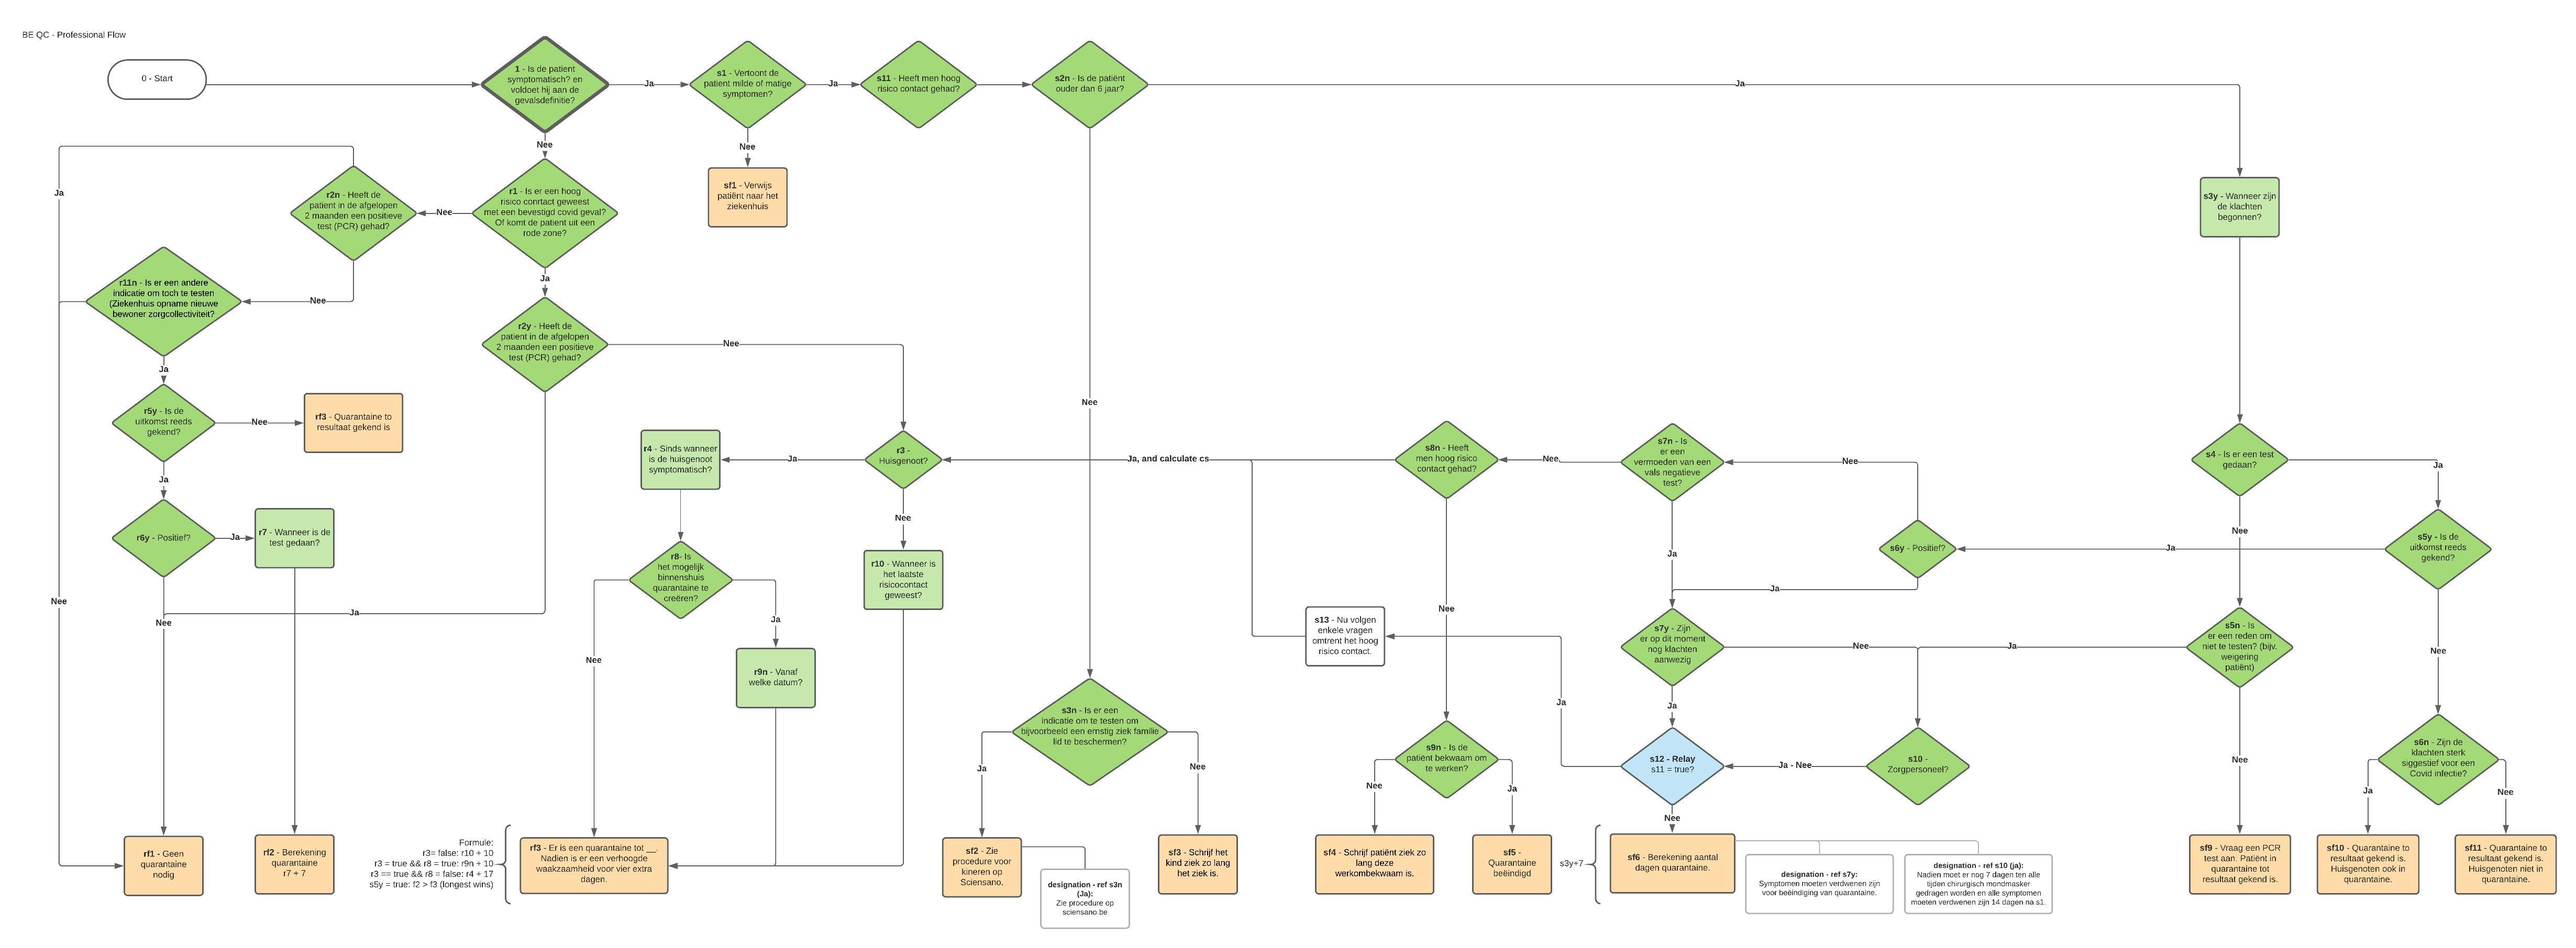
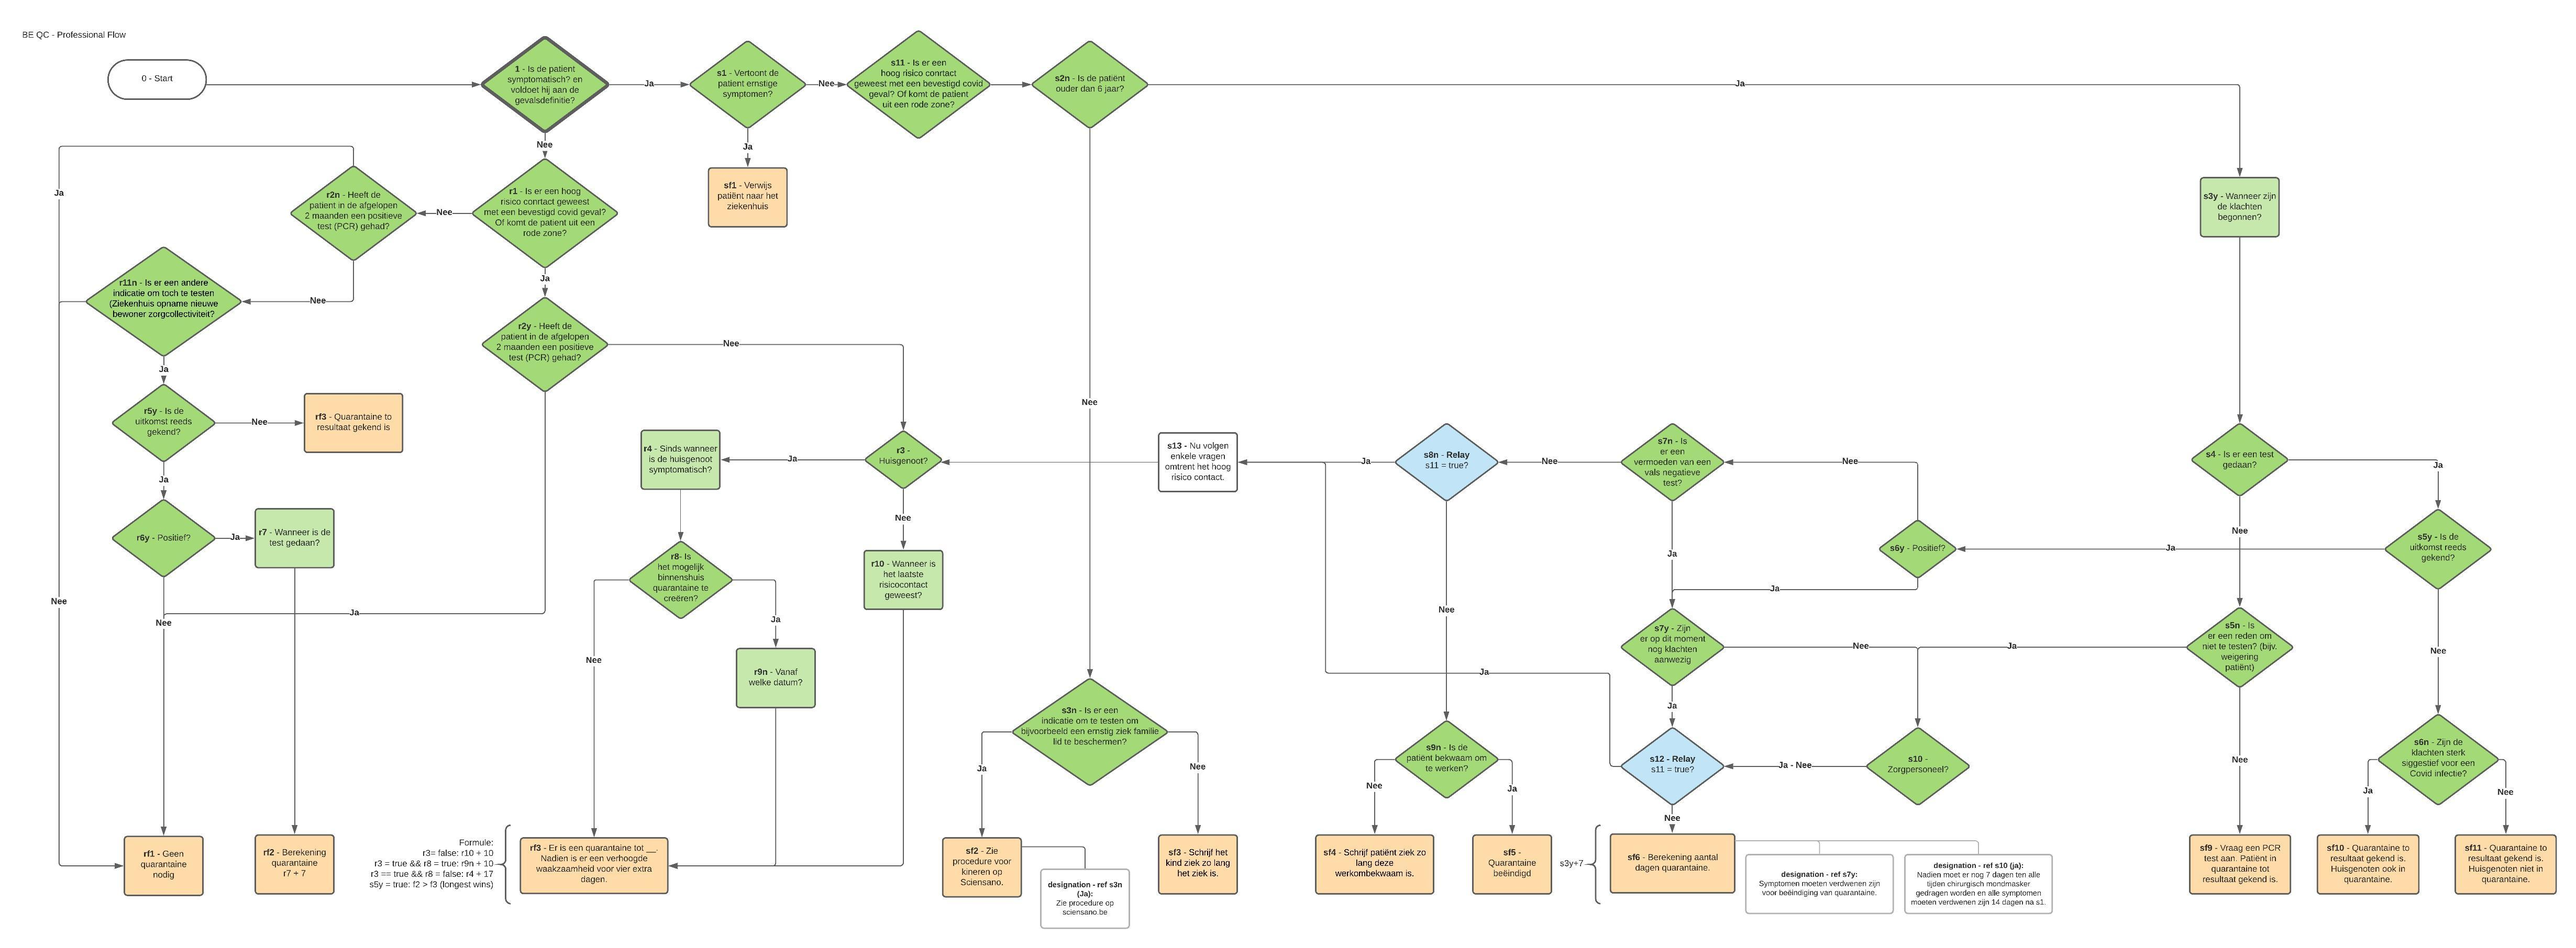
Pre release fixes (#43)
* #41 Changed s8n to a relay question
* #42 Changed text of s11 to match r1
* #42 Updated docs

diff --git a/src/core/config/index.ts b/src/core/config/index.ts
@@ -37,7 +37,7 @@ export const questions: Questions= [
     
     // Questions s-tree 
     q("s1").title("Vertoont de patiënt ernstige symptomen?").yesNo("sf1", "s11"),
-    q("s11").title("Heeft men hoog risico contact gehad?").yesNo("s2n","s2n"),
+    q("s11").title("Is er een hoog risico conrtact geweest met een bevestigd covid geval? Of komt de patient uit een rode zone?").yesNo("s2n","s2n"),
     q("s10").title("Is de patiënt werkzaam in de zorg?").yesNo("s12","s12"),
     q("s2n").title("Is de patiënt ouder dan 6 jaar?").yesNo("s3y","s3n"),
     q("s3n").title("Is er een indicatie om te testen om bijvoorbeeld een ernstig ziek familie lid te beschermen?").yesNo("sf2","sf3"),
@@ -51,7 +51,7 @@ export const questions: Questions= [
     q("s7y").title("Zijn er op dit moment nog klachten aanwezig?").yesNo("s12","s10"),
     q("s12").relay("s13", "sf6", "s11"),
     q("s13").title("Nu volgen enkele vragen omtrent het hoog risico contact...").next("r3"),
-    q("s8n").title("Is er ook een hoog risico contact geweest?").yesNo("r3", "s9n"),
+    q("s8n").relay("s13", "s9n", "s11"),
     q("s9n").title("Is de patient bekwaam om te werken?").yesNo("sf5", "sf4"),
     
     // Final answers s-tree
